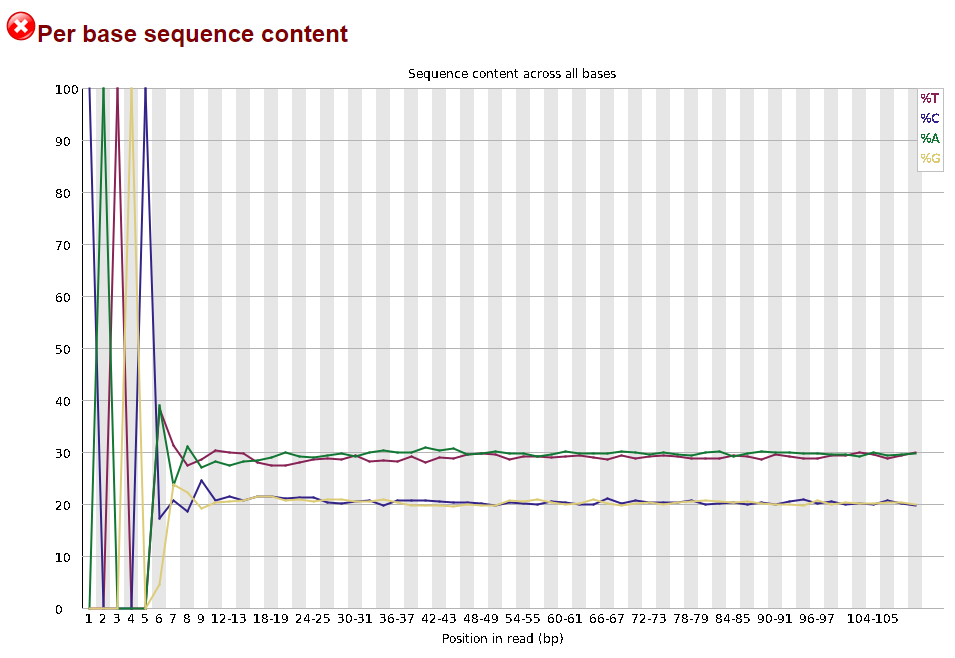
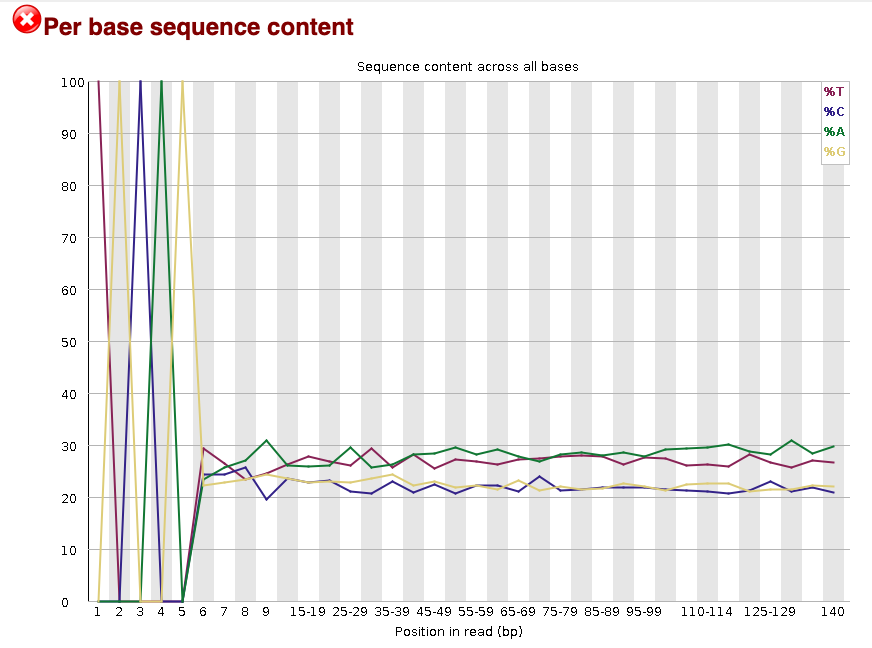
first pass through qc tutorial

diff --git a/Brisbane2025/data_QC.md b/Brisbane2025/data_QC.md
@@ -4,177 +4,259 @@
 The CLI provides a way to navigate a file system, move files around, and run commands all inside a little black window. The down side of CLI is that you have to learn many at first seemingly esoteric commands for doing all the things you would normally do with a mouse. However, there are several advantages of CLI: 1) you can use it on servers that don't have a GUI interface (such as HPC clusters); 2) it's scriptable, so you can write programs to execute common tasks or run analyses; 3) it's often faster and more efficient that click-and-drag GUI interfaces. For now we will start with 4 of the most common and useful commands:
 
 ```
-(ipyrad) osboxes@osboxes:~$ pwd
-/home/osboxes
+(base) jovyan@493222dbc32d:~$ pwd
+/home/jovyan
 ```
 `pwd` stands for **"print working directory"**, which literally means "where am I now in this filesystem". Just like when you open a file browser with windows or mac, when you open a new terminal the command line will start you out in your "home" directory. Ok, now we know where we are, lets take a look at what's in this directory:
 
 ```
-(ipyrad) osboxes@osboxes:~$ ls
-miniconda src subset-R1-raws.tgz usr
+(base) jovyan@493222dbc32d:~$ ls
+evolution  miniconda3  work
 ```
 
-`ls` stands for **"list"** and in our home directory there is are two folders with related to the software we'll be using in the course, and the cheetah data we'll be looking at, called subset-R1-raws.tgz. Throughout the workshop we will be adding files and directories and by the time we're done, not only will you have a bunch of experience with RAD-Seq analysis, but you'll also have a ***ton*** of stuff in your home directory. We can start out by adding the first directory for this workshop:
+`ls` stands for **"list"** and in our home directory there are three folders: 
+`miniconda3` which we just created with the conda install, `evolution` which we will
+**ignore**, and `work` which is a directory that holds the seadragon data we'll be 
+working with. Throughout the workshop we will be adding files and directories and by 
+the time we're done, not only will you have a bunch of experience with RAD-Seq 
+analysis, but you'll also have a ***ton*** of stuff in your home directory.
+
+### Setting up working directories
+
+We can start out by adding the first directory for this workshop:
 
 ```
-(ipyrad) osboxes@osboxes:~$ mkdir ipyrad-workshop
+(base) jovyan@493222dbc32d:~$ mkdir ipyrad-workshop
 ```
 
 `mkdir` stands for **"make directory"**, and unlike the other two commands, this command takes an "argument". This argument is the name of the directory you wish to create, so here we direct mkdir to create a new directory called "ipyrad-workshop". Now you can use `ls` again, to look at the contents of your home directory and you should see this new directory now:
 
 ```
-(ipyrad) osboxes@osboxes:~$ ls
-ipyrad-workshop miniconda src subset-R1-raws.tgz usr
+(base) jovyan@493222dbc32d:~$ ls
+evolution  ipyrad-workshop  miniconda3  work
 ```
 
 Throughout the workshop we will be introducing new commands as the need for them arises. We will pay special attention to highlighting and explaining new commands and giving examples to practice with. 
 
-> **Special Note:** Notice that the above directory we are making is not called `ipyrad workshop`. This is **very important**, as spaces in directory names are known to cause havoc on HPC systems. All linux based operating systems do not recognize file or directory names that include spaces because spaces act as default delimiters between arguments to commands. There are ways around this (for example Mac OS has half-baked "spaces in file names" support) but it will be so much for the better to get in the habit now of ***never including spaces in file or directory names***.
+> **Special Note:** Notice that the above directory we are making is not called `ipyrad workshop`. This is **very important**, as spaces in directory names are known to cause problems on HPC systems. All linux based operating systems do not recognize file or directory names that include spaces because spaces act as default delimiters between arguments to commands. There are ways around this (for example Mac OS has half-baked "spaces in file names" support) but it will be so much for the better to get in the habit now of ***never including spaces in file or directory names***.
+
+The raw data lives in a directory called `raws` inside a nested set of
+directories in the `work` directory. It will be very convenient for us to create
+a shortcut to the raw data inside our ipyrad work directory, so we'll do this first
+thing. First **Change Directory** into your `ipyrad-workshop` directory with the `cd` 
+command, then make the shortcut with `ln` (just copy/paste this command).
+
+```bash
+(base) jovyan@493222dbc32d:~$ cd ipyrad-workshop
+(base) jovyan@493222dbc32d:~/ipyrad-workshop$ ln -s /home/jovyan/work/BlackRockData2/SeadragonData/raws ./raws
+(base) jovyan@493222dbc32d:~/ipyrad-workshop$ ls -l
+```
+```
+lrwxrwxrwx 1 jovyan users   51 Apr 23 14:51 raws -> /home/jovyan/work/BlackRockData2/SeadragonData/raws
+```
+The `ls -l` command shows that the new `raws` shortcut indeed points to the shared
+raw data.
 
 ## Exploring the seadragon data
 We will be reanalysing RAD-Seq data from seadragon (*Phyllopteryx taeniolatus*) 
-sampled from across their distribution in Africa and Iran and published in [Klanten *et
-al* 2020 - Genomic and morphological evidence of distinct populations in the endemic 
-common (weedy) seadragon *Phyllopteryx taeniolatus* (Syngnathidae) along the east coast 
-of Australia](https://journals.plos.org/plosone/article?id=10.1371/journal.pone.0243446)
+sampled from across across New South Wales, Victoria, and Tasmania and published in 
+[Klanten *et al* 2020 - Genomic and morphological evidence of distinct populations 
+in the endemic common (weedy) seadragon *Phyllopteryx taeniolatus* (Syngnathidae) 
+along the east coast of Australia](https://journals.plos.org/plosone/article?id=10.1371/journal.pone.0243446)
 
 ![png](images/seadragon.jpg){: width="50%"}
 
-This study used various datatypes, including whole genome sequencing (WGS), mitochondrial data, MHC data, minisatellites and RADseq data. For this workshop, we will focus only on (part of ) the RADseq data, which consists of 23 individuals from 6 populations, and one outgroup (puma; *Puma concolor*). The data were generated using a double-digest restriction-site associated DNA (ddRAD) sequencing approach [Peterson *et al.*, 2012](https://journals.plos.org/plosone/article?id=10.1371/journal.pone.0037135). Note that raw reads have been randomly downsampled to 125,000 reads per sample, in order to create a dataset that will be computationally tractable with the expectation of finishing in a reasonable time. 
+Note that we have downsampled to 30 individuals (there are 82 in the study) and raw 
+reads have been randomly downsampled to 125,000 reads per sample, in order to create 
+a dataset that will be computationally tractable with the expectation of finishing in 
+a reasonable time. 
 
-You've already seen where the subset of raw data is located when you did `ls` earlier. Now, let's **move** them into the ipyrad-workshop folder you've just created, using the command `mv`. 
+You can see the fastq files for these samples by listing (`ls`) the directory where 
+they are stored, the `raws` shortcut we created earlier:
+
 ```
-(ipyrad) osboxes@osboxes:~$ mv subset-R1-raws.tgz ipyrad-workshop
+(base) jovyan@493222dbc32d:~/ipyrad-workshop$ ls raws
+Bic1_R1_.fastq.gz  Bic6_R1_.fastq.gz  Fli1_R1_.fastq.gz  Hob1_R1_.fastq.gz  Jer4_R1_.fastq.gz  Por5_R1_.fastq.gz
+Bic2_R1_.fastq.gz  Bot1_R1_.fastq.gz  Fli2_R1_.fastq.gz  Hob2_R1_.fastq.gz  Por1_R1_.fastq.gz  Syd1_R1_.fastq.gz
+Bic3_R1_.fastq.gz  Bot2_R1_.fastq.gz  Fli3_R1_.fastq.gz  Jer1_R1_.fastq.gz  Por2_R1_.fastq.gz  Syd2_R1_.fastq.gz
+Bic4_R1_.fastq.gz  Bot3_R1_.fastq.gz  Fli4_R1_.fastq.gz  Jer2_R1_.fastq.gz  Por3_R1_.fastq.gz  Syd3_R1_.fastq.gz
+Bic5_R1_.fastq.gz  Bot4_R1_.fastq.gz  Gue1_R1_.fastq.gz  Jer3_R1_.fastq.gz  Por4_R1_.fastq.gz  Syd4_R1_.fastq.gz
 ```
 
-If you do `ls` now, you'll see that the subset-R1-raws.tgz file is no longer there, since you've just moved it somewhere else. Let's take a look in your ipyrad-workshop folder, by navigating there first using `cd` and then listing everything in that folder.
-```
-(ipyrad) osboxes@osboxes:~$ cd ipyrad-workshop
-(ipyrad) osboxes@osboxes:~/ipyrad-workshop$ ls
-subset-R1-raws.tgz
-```
-
-Finally, you'll notice the raw data is in `.tgz` format, which is similar to a zip archive. We can unpack our raw data in the current directory using the `tar` command:
-```
-(ipyrad) osboxes@osboxes:~/ipyrad-workshop$ tar -xvzf subset-R1-raws.tgz
-```
-> **Point of interest:** All linux commands, such as `tar`, can have their behavior modified by passing various arguments. Here the arguments are `-x` to "Extract" the archive file; `-v` to add "verbosity" by printing progress to the screen; `z` to "unzip" the archive during extraction; and `-f` to "force" the extraction which prevents `tar` from pestering you with decisions.
-
-Now use `ls` to list the contents of your current directory. You'll see that there is a new directory, called subset-R1-raws, for which you can list the contents as well:
-```
-(ipyrad) osboxes@osboxes:~$ ls
-subset-R1-raws subset-R1-raws.tgz
-```
-```
-(ipyrad) osboxes@osboxes:~$ ls subset-R1-raws/
-```
-![png](images/ls_raws.png)
-
-> **Special Note:** You'll see that every file contains `_R1_`. Most of the time, the data you will be working on are paired-end, meaning that each sample has a `_R1_` and `_R2_` file. For this workshop, and to ensure that the steps run quickly, we will only use `_R1_`. 
+> **Special Note:** You'll see that every file contains `_R1_`. Most of the time, the data you will be working on are paired-end, meaning that each sample has a `_R1_` and `_R2_` file. For this workshop, and to ensure that the steps run quickly, we will only use `_R1_`.
 
 ## The `FASTQ` data file format
 
 Before we get started with the assembly, let's take a look at what the raw data
-looks like. We can use `zcat` and `head` to do this.
-
-Here we have our first look at a fastq formatted file. Each sequenced read is spread over four lines, one of which contains sequence and another the quality scores stored as ASCII characters. The other two lines are used as headers to store information about the read.
+looks like. Your input data will be in fastQ format, usually ending in `.fq`, `.fastq`, 
+`.fq.gz`, or `.fastq.gz`. The file(s) may be compressed with gzip so that they have a 
+`.gz` ending (in this case that is how they are), but they do not need to be. We can 
+use `zcat` to read the gzip format and `head` to carve off a small part of the data.
 
 ```bash
 ## zcat: unZip and conCATenate the file to the screen
 ## head -n 20: Just take the first 20 lines of input
 
-(ipyrad) osboxes@osboxes:~/ipyrad-workshop$ zcat subset-R1-raws/SRR19760910_R1_.fastq.gz | head -n 20
+(base) jovyan@493222dbc32d:~/ipyrad-workshop$ zcat raws/Bic1_R1_.fastq.gz | head -n 20
 ```
 ```
-@SRR19760910.1 1 length=110
-CATGCACGTGCAGCATATAAGAAGGATGTTTGTCATGCATTATCTTATTTGATGTTTACGGAAGCCCCATGGTTATCCCCATTTTAGGGATGAAGAAACGCCACAGAGAT
-+SRR19760910.1 1 length=110
-BFFFFFF<FBFFFFFF<FB//////<<FFFBFF//<FFFFFFBF/FBFFFFFFFFFFFFBB<F/BFFFFFFFFBFF/<<</BFBBFF/<FF<FF<7FFFF/7B/FF/B<7
-@SRR19760910.2 2 length=110
-CATGCAACTCTTGGTCTCGGGGTCTTGAGTTCGAGCCCCACGTTGGATTAGAGATTACTTAAATAAATAAAGTTCAAAAGTTTTAGAATGTTATCATTTTCTTTAACAGT
-+SRR19760910.2 2 length=110
-FFFFFFFFFFFFFFFFFFFFFFFFFFFFFFFFFFFFFFFFFFFFFFFFFFFFFFFFFFFFFFFFFFFFFFFFFFFFFFFFFFFFFFFFFFFFFFFFFFFFFFFFFFFFFF
-@SRR19760910.3 3 length=110
-CATGCCATTTCCCATGGGCAAGGATCTCAGGCTGTGCTCATTCCCAAGGACAAGACCAAGCCAATTCCCAATCCCCATATTTAAGGAGCTGCTTCCTGGGACCAATTCTG
-+SRR19760910.3 3 length=110
-FFFFFFFFFFFFFFFFFFFFFFFFFFFFFFFFF<FFFFFFFFFFFFFFFBFFFFFFFFFFFFFFFFFFFFFFFFFFBFFFFFFFFFBFFFFFFFFFFFFFFFFFFFFFFF
-@SRR19760910.4 4 length=110
-CATGCAACTCTTGATCTCAGGGTCATGAGTTCAAGCCCCACATTGGGTATGGATCCTACTGAAAGAAAAGAAAAGAAAAGAAAAGAAAAGAAAAGAAAAGAAAAGACAAG
-+SRR19760910.4 4 length=110
-FFBFFFFFFFFFFFFFBFFF<FFBFFBBFBFBF/B/BBFFBF<FFFB</BFBFB<BBFFFFFFBFFFBFFFFFF<FFF/FFFBFFF</FFBFFFFFFBFFFFFFFFFFFF
-@SRR19760910.5 5 length=110
-CATGCATTTGTGTTTGCTTCTATTTGTATGAAGAGTCGAGAAACCAGAAGCTAATACAAAGGGTTGCCCTTGGTAGGGGATGCTGACTGGATGGCTTTGGGGCAGGAGGA
-+SRR19760910.5 5 length=110
-FFFFFFFFFFFFFFFFFFFFFFFFFFFFFFFFFFFFFFFFFFFFFFFBFFFFFFFFFFFFFFBFFFFFFFFFFBFFFFFFFFFFF<FFFFFFFFFBFFFFFFFFFFFB/7
+@SRR12395901.1 3_11401_20767_1041/1
+TGCAGCTGCTATTCACAGCGACGAGATAATTGTCAATGAAAAGNNNNNNNNNNNNNNTNTGTTGTCGGCAGGGTCATTGTTCATCTCATTGAAGTCTATATGGCAGAGCAGAGTGTTTTCCTTTGAGTCGGGGGCATTGA
++
+EEEEEEEEEEEEEE/EEEEEEEEEEEEAEEEEEEEEEEEAEEE##############E#EEEEEEEEEAEEEEEEEEEEEE/EEEAEE6AEEEEEE<AEEEE/<AA<<<AAEEAA/AEE<6<AEEEEAAEAAAAAEEEEE
+@SRR12395901.2 3_11401_6247_1055/1
+TGCAGGTCAGCGCTCAAGTGCGAGTTTTGCACCTCCAGTCGACTCGACATACCTTGAATCTGAGCCACCTGCAATGAAGAAGACAGATGTGACGCTCTAAACTTTGTGGAAGCTAGCTTTGGGTGTGAGCGCAGAGCCTT
++
+EEEEEEEEEEEEEEEEEEEEEAEE6EEEEEAEEEEA/EEAA/EAEE<AAE<EE</</AEE<</EEE/EEAEAAEEAEAE/<EEAEE/EEEE//EE/E<E//E</E/A/AA<A/<6<///<AAAA</A//<<<//AA6A/<
+@SRR12395901.3 3_11401_9855_1058/1
+TGCAGATTCTTCTATGAAAATAGAGCCCCTTGTCTTCGTCTTGTTTGGTTTTGACAATCATACAGCGTGAGCGCTTCAATTGTTAGCTTTGGCTTTCCATCGCAGGCAATGAACTGGGAATGGAGGACTTGTAATTTAAG
++
+EEEEEEEEEEEEEEEEEEEEEEEEEEEEEEEEAEEE<EAEEEEEAEEEEEEEEEAEEEEEEAEEEEEEEEEEEEEAE/EEEEEE/EEEEEEEEEEEAAEA<A<A</<EEE/EEEEAEEAAAAAEEAAAA<<AA<EEEEEE
+@SRR12395901.4 3_11401_4121_1059/1
+TGCAGCAGCCTAGAAACCCTCCGGAGTGGAACTGAAAGTTCAGCGGGATGCGTCATAGCCCACGGGACCACGCAGCGGGTGTTCCCCTTCATGCTTATTAGCATTGGCGTCATGCGTGCGCGTACAAGAAATCATCCACC
++
+EEEEEE6EEEEEEEAEEEEEEAAAEE/EEE/EEEEEEEE/EAEEEEAEEEEEAAEA<EAAE/EEEE/AE</EEAEEAE//A/A6E/EAAAE<AAE6A<AE<A/66/AA<6</A/A</A/AAE/A///E///<<E/AA/A/
+@SRR12395901.5 3_11401_17757_1060/1
+TGCAGCATTTTGGAATTACCGTAAACAAAACTCAGAGGAAACACAAAAGAAATCGAAAACCACCGTCCACAATTAAGTGTTTGTTGAGCAAACAAGATTTGCTGAGGTCACTGCATGATGGCAATTGAGTTTCCAATTTT
++
+EEEEEEEEEEEEEEEEEEEEEEEEEEEEEEEEEEEEEEEEEEEEAEEEEEEEEEAEEEE6AEEAEEAAEAEEEEEEEEEEEEEEAEEEAE<EEAEEEEEEEAEAEEEEEEEEE<AAEAEEA<A6A<AAE66AA<AAEEEE
 ```
 
-The first is the name of the read (its location on the plate). The second line
-contains the sequence data. The third line is unused. And the fourth line is
-the quality scores for the base calls. The [FASTQ wikipedia](https://en.wikipedia.org/wiki/FASTQ_format)
-page has a good figure depicting the logic behind how quality scores are encoded.
+Here we have our first look at a **fastq formatted file**. Each sequenced read is 
+spread over four lines, one of which contains sequence and another the quality scores 
+stored as ASCII characters. The other two lines are used as headers to store 
+information about the read.
+* Line 1: The name of the read (its location on the plate)
+* Line 2: The sequence data
+* Line 3: Unused
+* Line 4: Quality scores for the base calls (see the [FASTQ wikipedia](https://en.wikipedia.org/wiki/FASTQ_format) for more details on this)
+
+What do you notice about the beginning of each line of sequence data? In this case 
+one of the restriction enzyme used (PstI) leaves a `TGCAG` overhang, so this is
+literally the cut site where each DNA molecule was cleaved.
+
+To get a better view of the data quality, without looking at individual reads, we use 
+automated approaches to check the quality. We will use [FastQC](https://www.bioinformatics.babraham.ac.uk/projects/fastqc/) to generate a sample-wide summary of data quality.
 
 ## FastQC for quality control
 The first step of any RAD-Seq assembly is to inspect your raw data to estimate overall quality. At this stage you can then attempt to improve your dataset by identifying and removing samples with failed sequencing. Another key QC procedure involves inspecting average quality scores per base position and trimming read edges, which is where low quality base-calls tend to accumulate. In this figure, the X-axis shows the position on the read in base-pairs and the Y-axis depicts information about [Phred quality score](https://en.wikipedia.org/wiki/Phred_quality_score) per base for all reads, including median (center red line), IQR (yellow box), and 10%-90% (whiskers). As an example, here is a very clean base sequence quality report for a 75bp RAD-Seq library. These reads have generally high quality across their entire length, with only a slight (barely worth mentioning) dip toward the end of the reads:
 
 ![png](images/fastqc-high-quality-example.png)
 
-In contrast, here is a somewhat typical base sequence quality report for R1 of a 300bp paired-end Illumina run of another RADseq dataset:
+In contrast, here is a somewhat typical base sequence quality report for R1 of a 
+300bp paired-end Illumina run of another RADseq dataset:
 
 ![png](images/fastqc-quality-example.png)
 
 This figure depicts a common artifact of current Illumina chemistry, whereby quality scores per base drop off precipitously toward the ends of reads, with the effect being magnified for read lengths >150bp. The purpose of using FastQC to examine reads is to determine whether and how much to trim our reads to reduce sequencing error interfering with basecalling. In the above figure, as in most real dataset, we can see there is a tradeoff between throwing out data to increase overall quality by trimming for shorter length, and retaining data to increase value obtained from sequencing with the result of increasing noise toward the ends of reads.
 
-### Running FastQC on the cheetah data
-In preparation for running FastQC on our raw data we need to make an output directory to keep the FastQC results organized:
+### Running FastQC on the seadragon data
+In preparation for running FastQC on our raw data we need to make an output directory 
+to keep the FastQC results organized. ake a new directory with
+`mkdir`.
 
-```
-(ipyrad) osboxes@osboxes:~/ipyrad-workshop$ mkdir fastqc-results
+```bash
+(base) jovyan@493222dbc32d:~/ipyrad-workshop$ mkdir fastqc-results
+(base) jovyan@493222dbc32d:~/ipyrad-workshop$ ls
+fastqc-results raws
 ```
 Now run fastqc on one of the samples:
 ```
-(ipyrad) osboxes@osboxes:~/ipyrad-workshop$ fastqc -o fastqc-results subset-R1-raws/SRR19760910_R1_.fastq.gz
+(base) jovyan@493222dbc32d:~/ipyrad-workshop$ fastqc -o fastqc-results raws/Bic1_R1_.fastq.gz 
 ```
-> **Note:** The `-o` flag tells fastqc where to write output files. **Especially Notice** the *relative path* to the raw file. The difference between *relative* and *absolute* paths is an important one to learn. Relative paths are specified with respect to the current working directory. Since I am in `/home/ipyrad-workshop`, and this is the directory the `subset-R1-raws` directory is in, I can simply reference it directly. If I was in any other directory I could specify the *absolute path* to the target fastq.gz file which would be `/home/ipyrad-workshop/subset-R1-raws/SRR19760910_R1_.fastq.gz`. Absolute paths are always more precise, but also always (often _much_) longer.
+> **Note:** The `-o` flag tells fastqc where to write output files.
 
-FastQC will indicate its progress in the terminal. This toy data will run quite quickly, but real data can take somewhat longer to analyse (10s of minutes).
+FastQC will indicate its progress in the terminal. This subset data will run quite 
+quickly, but real data can take somewhat longer to analyse (10s of minutes).
 
-![png](images/fastqc-run.png)
+```
+application/octet-stream
+Started analysis of Bic1_R1_.fastq.gz
+Approx 5% complete for Bic1_R1_.fastq.gz
+Approx 10% complete for Bic1_R1_.fastq.gz
+Approx 15% complete for Bic1_R1_.fastq.gz
+Approx 20% complete for Bic1_R1_.fastq.gz
+Approx 25% complete for Bic1_R1_.fastq.gz
+Approx 30% complete for Bic1_R1_.fastq.gz
+Approx 35% complete for Bic1_R1_.fastq.gz
+Approx 40% complete for Bic1_R1_.fastq.gz
+Approx 45% complete for Bic1_R1_.fastq.gz
+Approx 50% complete for Bic1_R1_.fastq.gz
+Approx 55% complete for Bic1_R1_.fastq.gz
+Approx 60% complete for Bic1_R1_.fastq.gz
+Approx 65% complete for Bic1_R1_.fastq.gz
+Approx 70% complete for Bic1_R1_.fastq.gz
+Approx 75% complete for Bic1_R1_.fastq.gz
+Approx 80% complete for Bic1_R1_.fastq.gz
+Approx 85% complete for Bic1_R1_.fastq.gz
+Approx 90% complete for Bic1_R1_.fastq.gz
+Approx 95% complete for Bic1_R1_.fastq.gz
+Approx 100% complete for Bic1_R1_.fastq.gz
+Analysis complete for Bic1_R1_.fastq.gz
+```
 
 If you feel so inclined you can QC all the raw data using a wildcard substitution:
 ```
-(ipyrad) osboxes@osboxes:~/ipyrad-workshop$ fastqc -o fastqc-results subset-R1-raws/*
+(base) jovyan@493222dbc32d:~/ipyrad-workshop$ fastqc -o fastqc-results raws/*
 ```
-> **Note:** The `*` here is a special command line character that means "Everything that matches this pattern". So here `subset-R1-raws/*` matches _everything_ in the raws directory. Equivalent (though more verbose) statements are: `ls subset-R1-raws/*.gz`, `ls subset-R1-raws/*.fastq.gz`, `ls subset-R1-raws/*_R1_.fastq.gz`. All of these will list all the files in the `raws` directory. **Special Challenge:** Can you construct an `ls` command using wildcards that only lists samples in the `subset-R1-raws` directory that include the digit 5 in their sample name?
+> **Note:** The `*` here is a special command line character that means "Everything 
+that matches this pattern". So here `raws/*` matches _everything_ in the raws 
+directory.
 
-Examining the output directory you'll see something like this (assuming that you ran FastQC on all files):
+Examining the output directory you'll see something like this (assuming that you 
+ran FastQC on all files):
 
 ![png](images/fastqc-folder.png)
 
-Now we have output files that include html and images depicting lots of information about the quality of our reads, but we can't inspect these from inside our little black window. But we can go back to the Notebook server, and navigate to the results by first clicking on `ipyrad-workshop` and then `fastqc-results`. Open one of the html files by double clicking on them.
+Now we have output files that include html and images depicting lots of information 
+about the quality of our reads, but we can't inspect these from inside our little black 
+window. But we can use the file browser pane in the left-nav, and navigate to the 
+results by first clicking on `ipyrad-workshop` and then `fastqc-results`. Open one of 
+the html files by double clicking on them.
 
 ![png](images/notebook-fastqc.png)
 
 ### Instpecting and Interpreting FastQC Output
 
-Just taking a random one, lets spend a moment looking at the results from `SRR19760910_R1__fastqc.html`. Opening up this html file, on the left you'll see a summary of all the results, which highlights areas FastQC indicates may be worth further examination. We will only look at a few of these.
+Just taking a random one, lets spend a moment looking at the results from 
+`Bic1_R1_.fastq.gz`. Opening up this html file, on the left you'll see a summary of 
+all the results, which highlights areas FastQC indicates may be worth further 
+examination. We will only look at a few of these.
 
 ![png](images/fastqc-summary.png)
 
-Lets start with Per base sequence quality, because it's very easy to interpret, and often times with RAD-Seq data results here will be of special importance.
+Lets start with `Per base sequence quality`, because it's very easy to interpret, and often times with RAD-Seq data results here will be of special importance.
 
 ![png](images/fastqc-perbasequal.png)
 
-For the cheetah data the sequence quality per base is uniformly quite high, with minor dips only in the first and last few bases (again, this is typical for Illumina reads). Based on information from this plot we can see that the cheetah data doesn't need trimming, which is good.
+For the seadragon data the sequence quality per base is is slightly reduced above
+about 100bp (but again, this is not atypical for Illumina reads). Based on information 
+from this plot we can see that the seadragon data could probably be 3' trimmed a bit,
+to reduce noise in the data.
 
-Now lets look at the `Per base sequece content`, which FastQC highlights with a scary red **X**.
+Now lets look at the `Per base sequece content`, which FastQC highlights with a scary 
+red **X**.
 ![png](images/fastqc-perbasecontent.png)
 
-The squiggles indicate base composition per base position averaged across the reads. It looks like the signal FastQC is concerned about here is related to the *extreme* base composition bias of the first 5 positions. We happen to know this is a result of the restriction enzyme overhang present in all reads (`CATGC` in this case for the SphI enzyme used), and so it is in fact of no concern. 
+The squiggles indicate base composition per base position averaged across the reads. 
+It looks like the signal FastQC is concerned about here is related to the *extreme* 
+base composition bias of the first 5 positions. We happen to know this is a result of 
+the restriction enzyme overhang present in all reads (`TGCAG` in this case for the PstI 
+enzyme used), and so it is in fact of no concern. 
 
-All in all, the data look good and we can proceed with the ipyrad analysis.
+It's also often useful to look at the `Adapter content` report, to check how much
+adapter contamination there is. This tends to be less of a problem for single-end
+data, so the seadragon data has very little adapter contamination. 
 
-# References
-Prost, Stefan, Ana Paula Machado, Julia Zumbroich, Lisa Preier, Sarita Mahtani-Williams, Rene Meissner, Katerina Guschanski, et al. 2022. Genomic Analyses Show Extremely Perilous Conservation Status of African and Asiatic Cheetahs (Acinonyx Jubatus). Molecular Ecology 31 (16): 4208–23.
+![png](images/fastqc-adaptercontent.png)
 
-Peterson, Brant K., Jesse N. Weber, Emily H. Kay, Heidi S. Fisher, and Hopi E. Hoekstra. 2012. Double Digest RADseq: An Inexpensive Method for de Novo SNP Discovery and Genotyping in Model and Non-Model Species. PloS One 7 (5): e37135.
+To give an idea of what bad adapter contamination looks like, here's an example
+from a different dataset that had a big problem. The y-axis is the % adapter
+contamination per base position, so 10% of the data between bases 20-40 is adapter, 
+increasing to ~40% adapter sequence at the 3' end of the reads (which is a lot).
 
+![png](images/fastqc-adaptercontamination.png)
+
+Either way, ipyrad will remove adapter contamination by default, it's just sometimes
+good to know about whether this is an issue with your data. At the end of the day, 
+the seadragon data look good and we can proceed with the ipyrad analysis.

diff --git a/Brisbane2025/ipyrad-CLI-FullTutorial.md b/Brisbane2025/ipyrad-CLI-FullTutorial.md
@@ -202,6 +202,11 @@ CATGC                           ## [8] [restriction_overhang]: Restriction overh
 ```
 **NB:** Don't forget to choose "File->Save Text" after you are done editing!
 
+Seadragon data followed the ddRAD protocol of Peterson et al 2012 and used the
+restriction enzymes [PstI](https://www.neb.com/en-us/products/r0140-psti) & 
+[HpyCH4IV](https://www.neb.com/en-us/products/r0619-hpych4iv?srsltid=AfmBOoq-K9hCFJeDDKyKvOnIuK61fDPRicig9SRnzrYmQ1MzA6CraJHC) which leave overhang
+sequences of `TGCAG` and `ACG`, respectively.`
+
 Once we start running the analysis ipyrad will create several new directories to
 hold the output of each step for this assembly. By default the new directories
 are created in the `project_dir` directory and use the prefix specified by the

diff --git a/Brisbane2025/setup.md b/Brisbane2025/setup.md
@@ -62,9 +62,10 @@ should now look like this:
 (base) jovyan@493222dbc32d:~$
 ```
 
-Now you can install ipyrad with conda like this (it will take 1-2 minutes):
+Now you can install ipyrad (and a few of the other necessary packages we'll be using)
+with conda like this (it will take 1-2 minutes):
 ```
-conda install -c conda-forge -c bioconda ipyrad -y
+conda install -c conda-forge -c bioconda ipyrad fastqc -y
 ```
 
 ### Installing ipyrad on your home system
